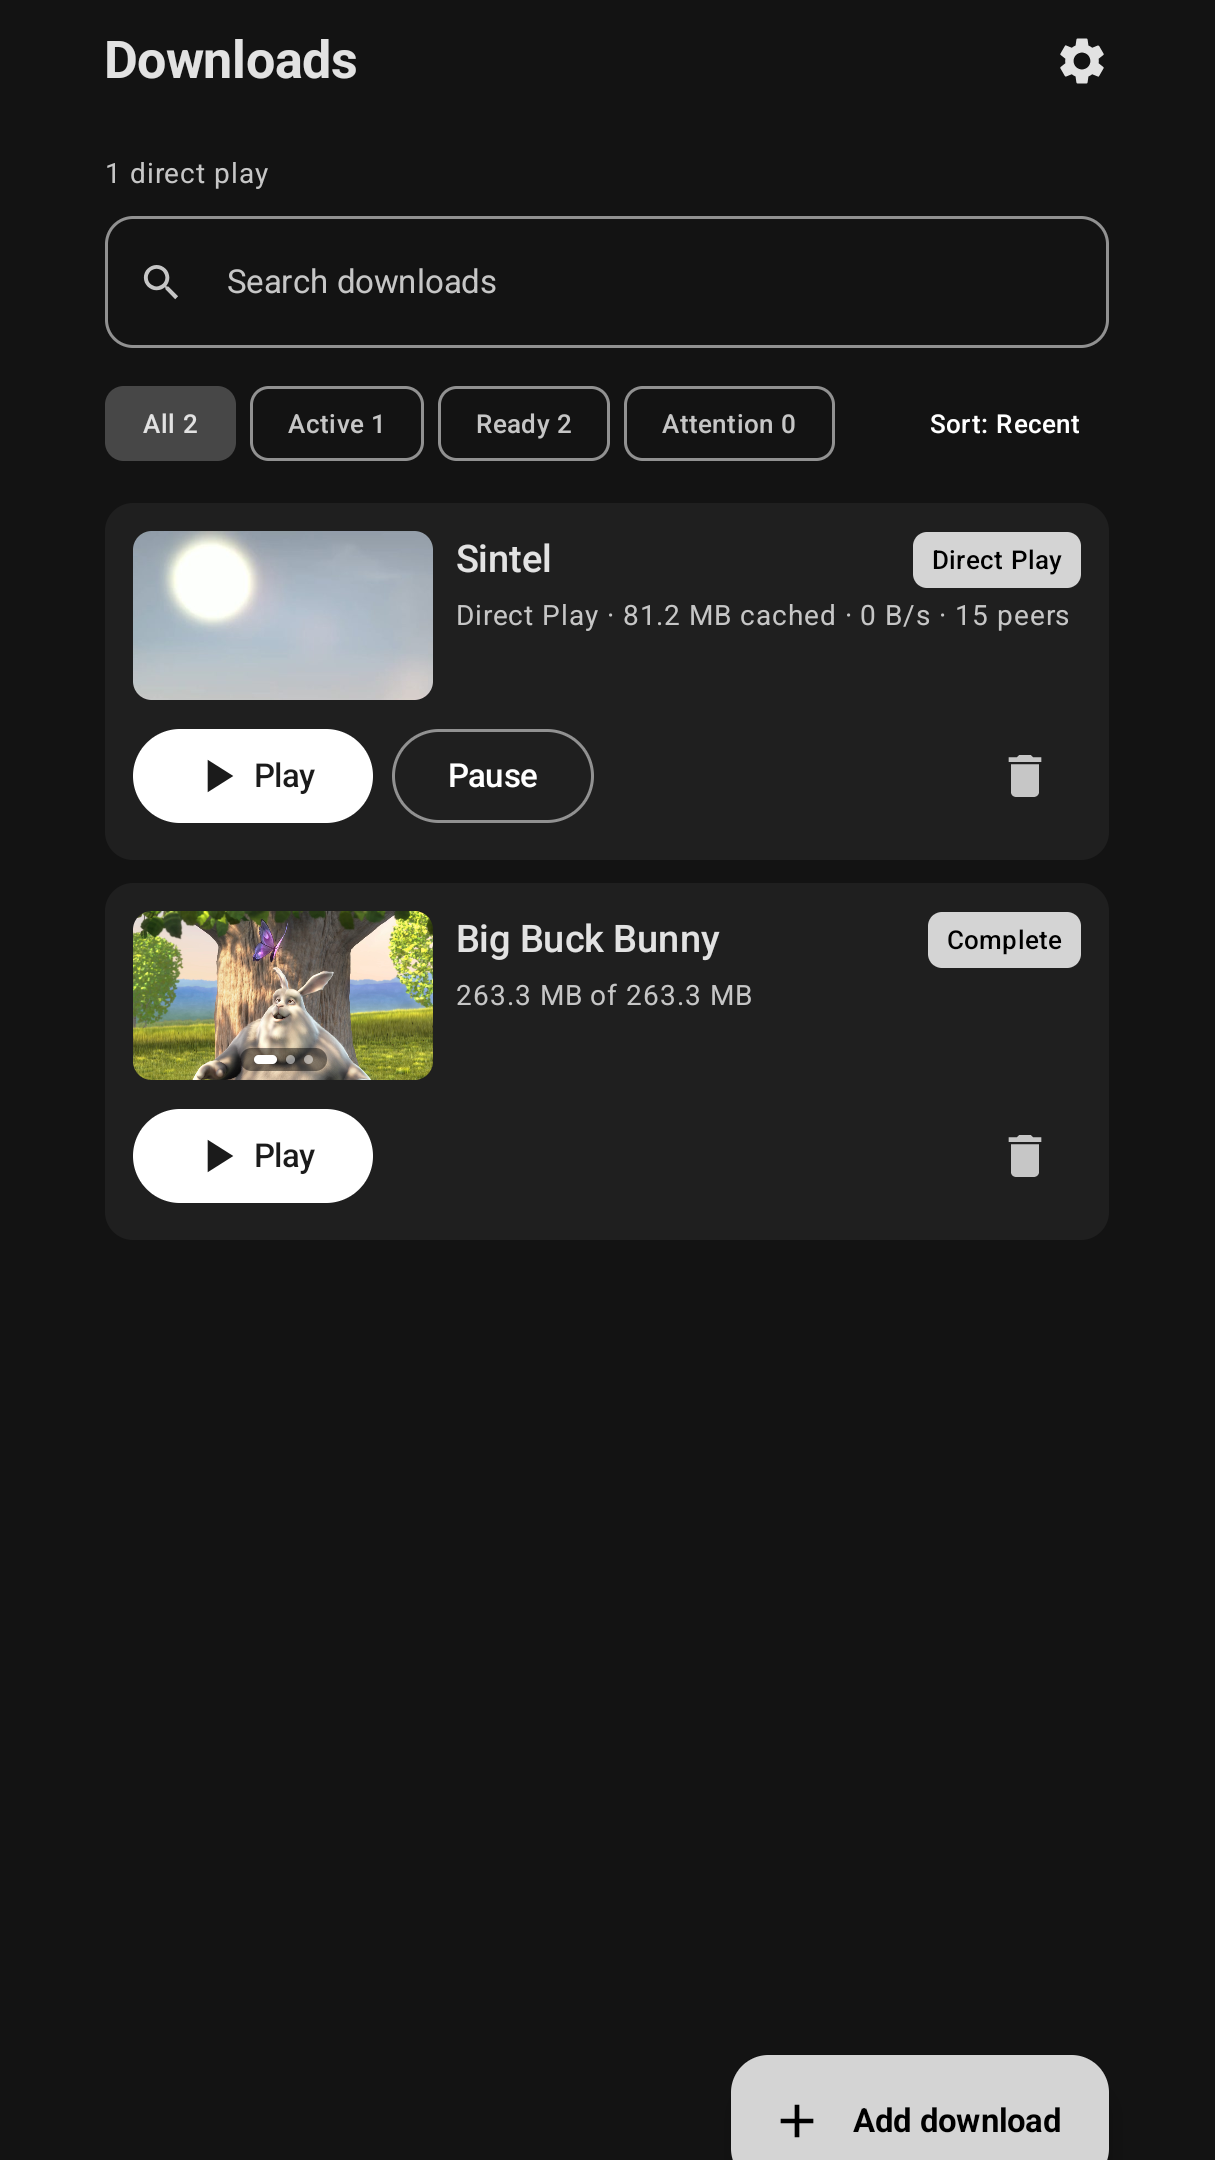
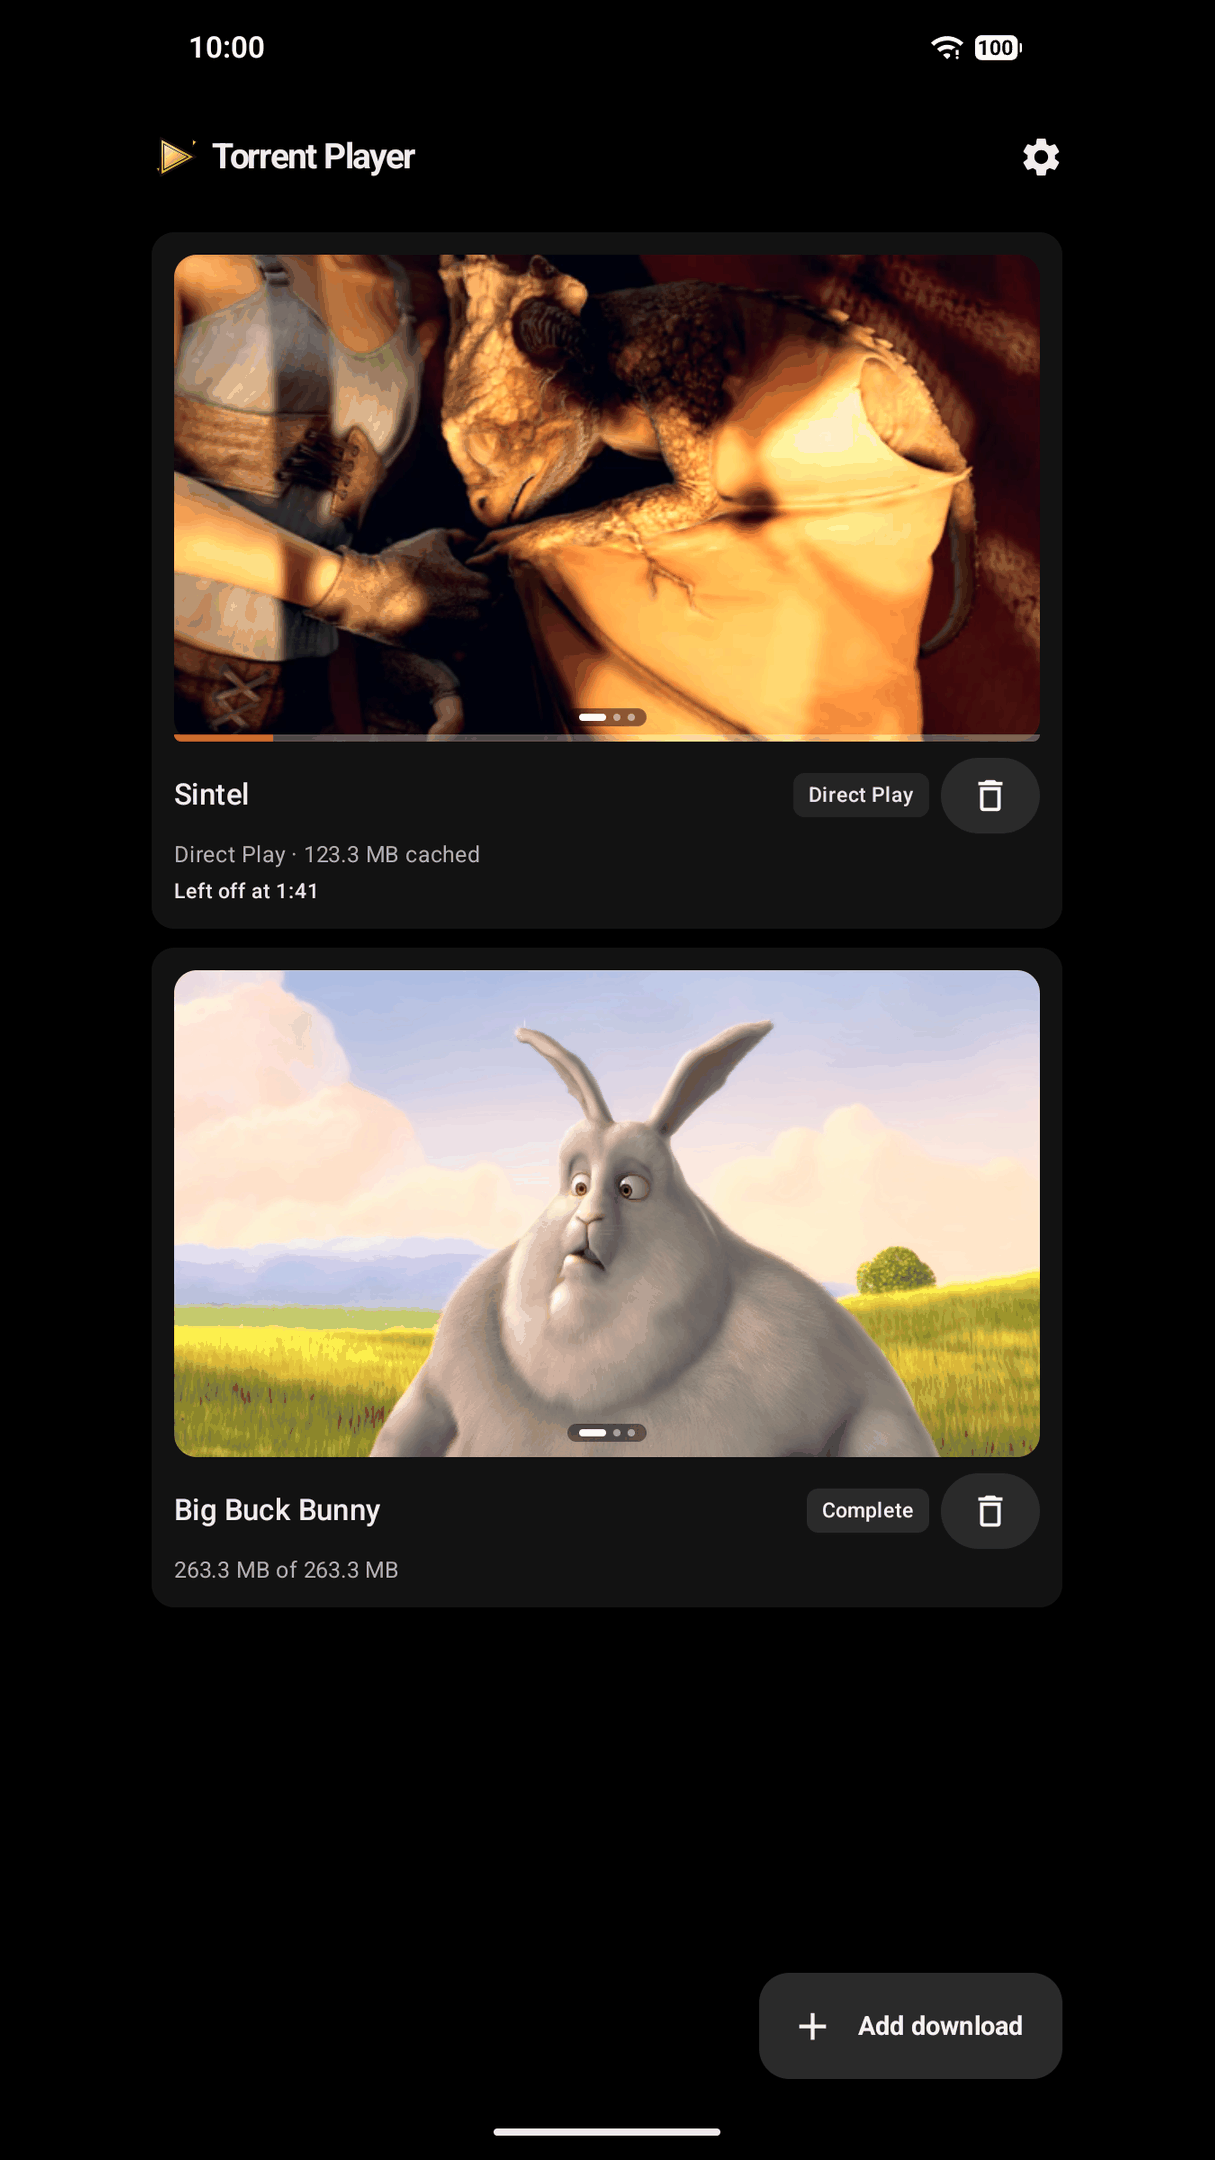
New screenshots from 2.6.0: home picture cards, add preview, player, swarm map, peers (IPs blurred), settings

diff --git a/README.md b/README.md
@@ -32,11 +32,12 @@
 </p>
 
 <p align="center">
-  <img src="fastlane/metadata/android/en-US/images/phoneScreenshots/1.png" width="19%" alt="Library with video previews" />
-  <img src="fastlane/metadata/android/en-US/images/phoneScreenshots/2.png" width="19%" alt="Add a magnet and choose files" />
-  <img src="fastlane/metadata/android/en-US/images/phoneScreenshots/3.png" width="19%" alt="Live swarm world map and pieces" />
-  <img src="fastlane/metadata/android/en-US/images/phoneScreenshots/4.png" width="19%" alt="Connected peers by protocol" />
-  <img src="fastlane/metadata/android/en-US/images/phoneScreenshots/5.png" width="19%" alt="Settings" />
+  <img src="fastlane/metadata/android/en-US/images/phoneScreenshots/1.png" width="16%" alt="Home: video cards with 3 pictures each" />
+  <img src="fastlane/metadata/android/en-US/images/phoneScreenshots/2.png" width="16%" alt="Add a magnet: preview and choose files" />
+  <img src="fastlane/metadata/android/en-US/images/phoneScreenshots/3.png" width="16%" alt="Built-in player: Direct Play from RAM" />
+  <img src="fastlane/metadata/android/en-US/images/phoneScreenshots/4.png" width="16%" alt="Live swarm world map" />
+  <img src="fastlane/metadata/android/en-US/images/phoneScreenshots/5.png" width="16%" alt="Connected peers by protocol" />
+  <img src="fastlane/metadata/android/en-US/images/phoneScreenshots/6.png" width="16%" alt="Settings" />
 </p>
 <p align="center">
   <sub>Library · Add a torrent · Swarm map and pieces · Peers · Settings<br>
